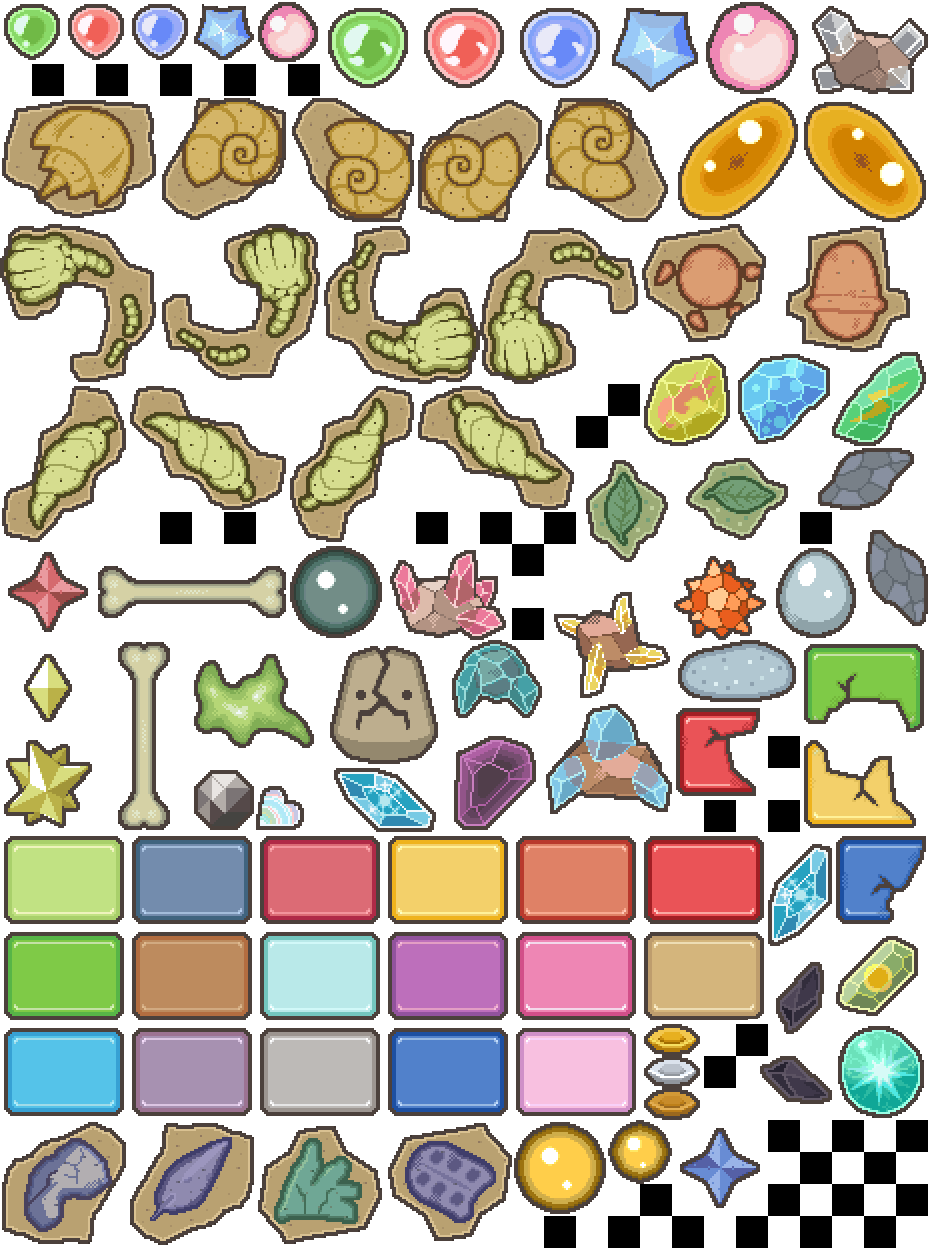
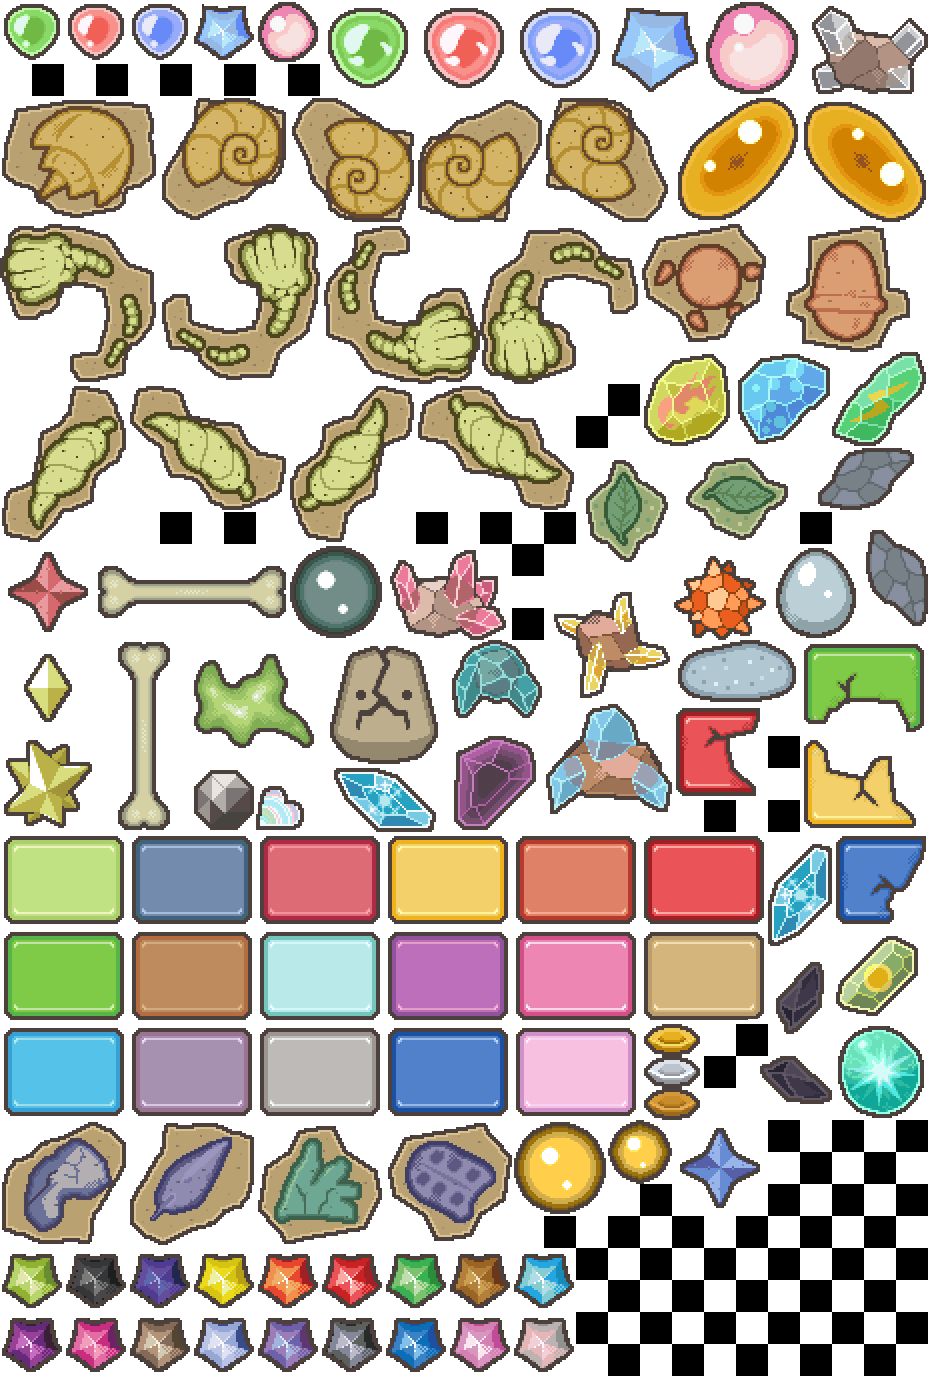
Add Gems to mining

diff --git a/MiningOverhaul.rb b/MiningOverhaul.rb
@@ -14,8 +14,9 @@
 ##########################################################
 ##				THANK YOU AND PLEASE ENJOY!				##
 ##########################################################
-# ADDED BY WIRE: RELICS, SWM MINEFORRICH
+# ADDED BY WIRE: RELICS, GEMS, SWM MINEFORRICH
 # Sprites largely sourced from Screen Lady at https://eeveeexpo.com/resources/1274/
+# Gem sprites made by wire based on Screen Lady's Diamond Sphere (small)
 #####MODDED
 if defined?($hitsRemoved)
   $hitsRemoved=0
@@ -210,7 +211,25 @@ class MiningGameScene
    [:SAILFOSSIL,4, 8,35, 4,4,[0,1,1,0,1,1,1,1,1,1,1,1,1,1,1,1]],
    [:RELICGOLD,6,20,32,2,1,[1,1]],
    [:RELICSILVER,10,20,33,2,1,[1,1]],
-   [:RELICCOPPER,16,20,34,2,1,[1,1]]
+   [:RELICCOPPER,16,20,34,2,1,[1,1]],
+     [:BUGGEM,20, 0,39, 2,2,[1,1,1,1]],
+     [:DARKGEM,20, 2,39, 2,2,[1,1,1,1]],
+     [:DRAGONGEM,20, 4,39, 2,2,[1,1,1,1]],
+     [:ELECTRICGEM,20, 6,39, 2,2,[1,1,1,1]],
+     [:FIGHTINGGEM,20, 8,39, 2,2,[1,1,1,1]],
+     [:FIREGEM,20, 10,39, 2,2,[1,1,1,1]],
+     [:GRASSGEM,20, 12,39, 2,2,[1,1,1,1]],
+     [:GROUNDGEM,20, 14,39, 2,2,[1,1,1,1]],
+     [:ICEGEM,20, 16,39, 2,2,[1,1,1,1]],
+     [:POISONGEM,20, 0,41, 2,2,[1,1,1,1]],
+     [:PSYCHICGEM,20, 2,41, 2,2,[1,1,1,1]],
+     [:ROCKGEM,20, 4,41, 2,2,[1,1,1,1]],
+     [:FLYINGGEM,20, 6,41, 2,2,[1,1,1,1]],
+     [:GHOSTGEM,20, 8,41, 2,2,[1,1,1,1]],
+     [:STEELGEM,20, 10,41, 2,2,[1,1,1,1]],
+     [:WATERGEM,20, 12,41, 2,2,[1,1,1,1]],
+     [:FAIRYGEM,10, 14,41, 2,2,[1,1,1,1]], # Canonically rarer
+     [:NORMALGEM,20, 16,41, 2,2,[1,1,1,1]]
    ##       MODDED          ##
   ] 
   
